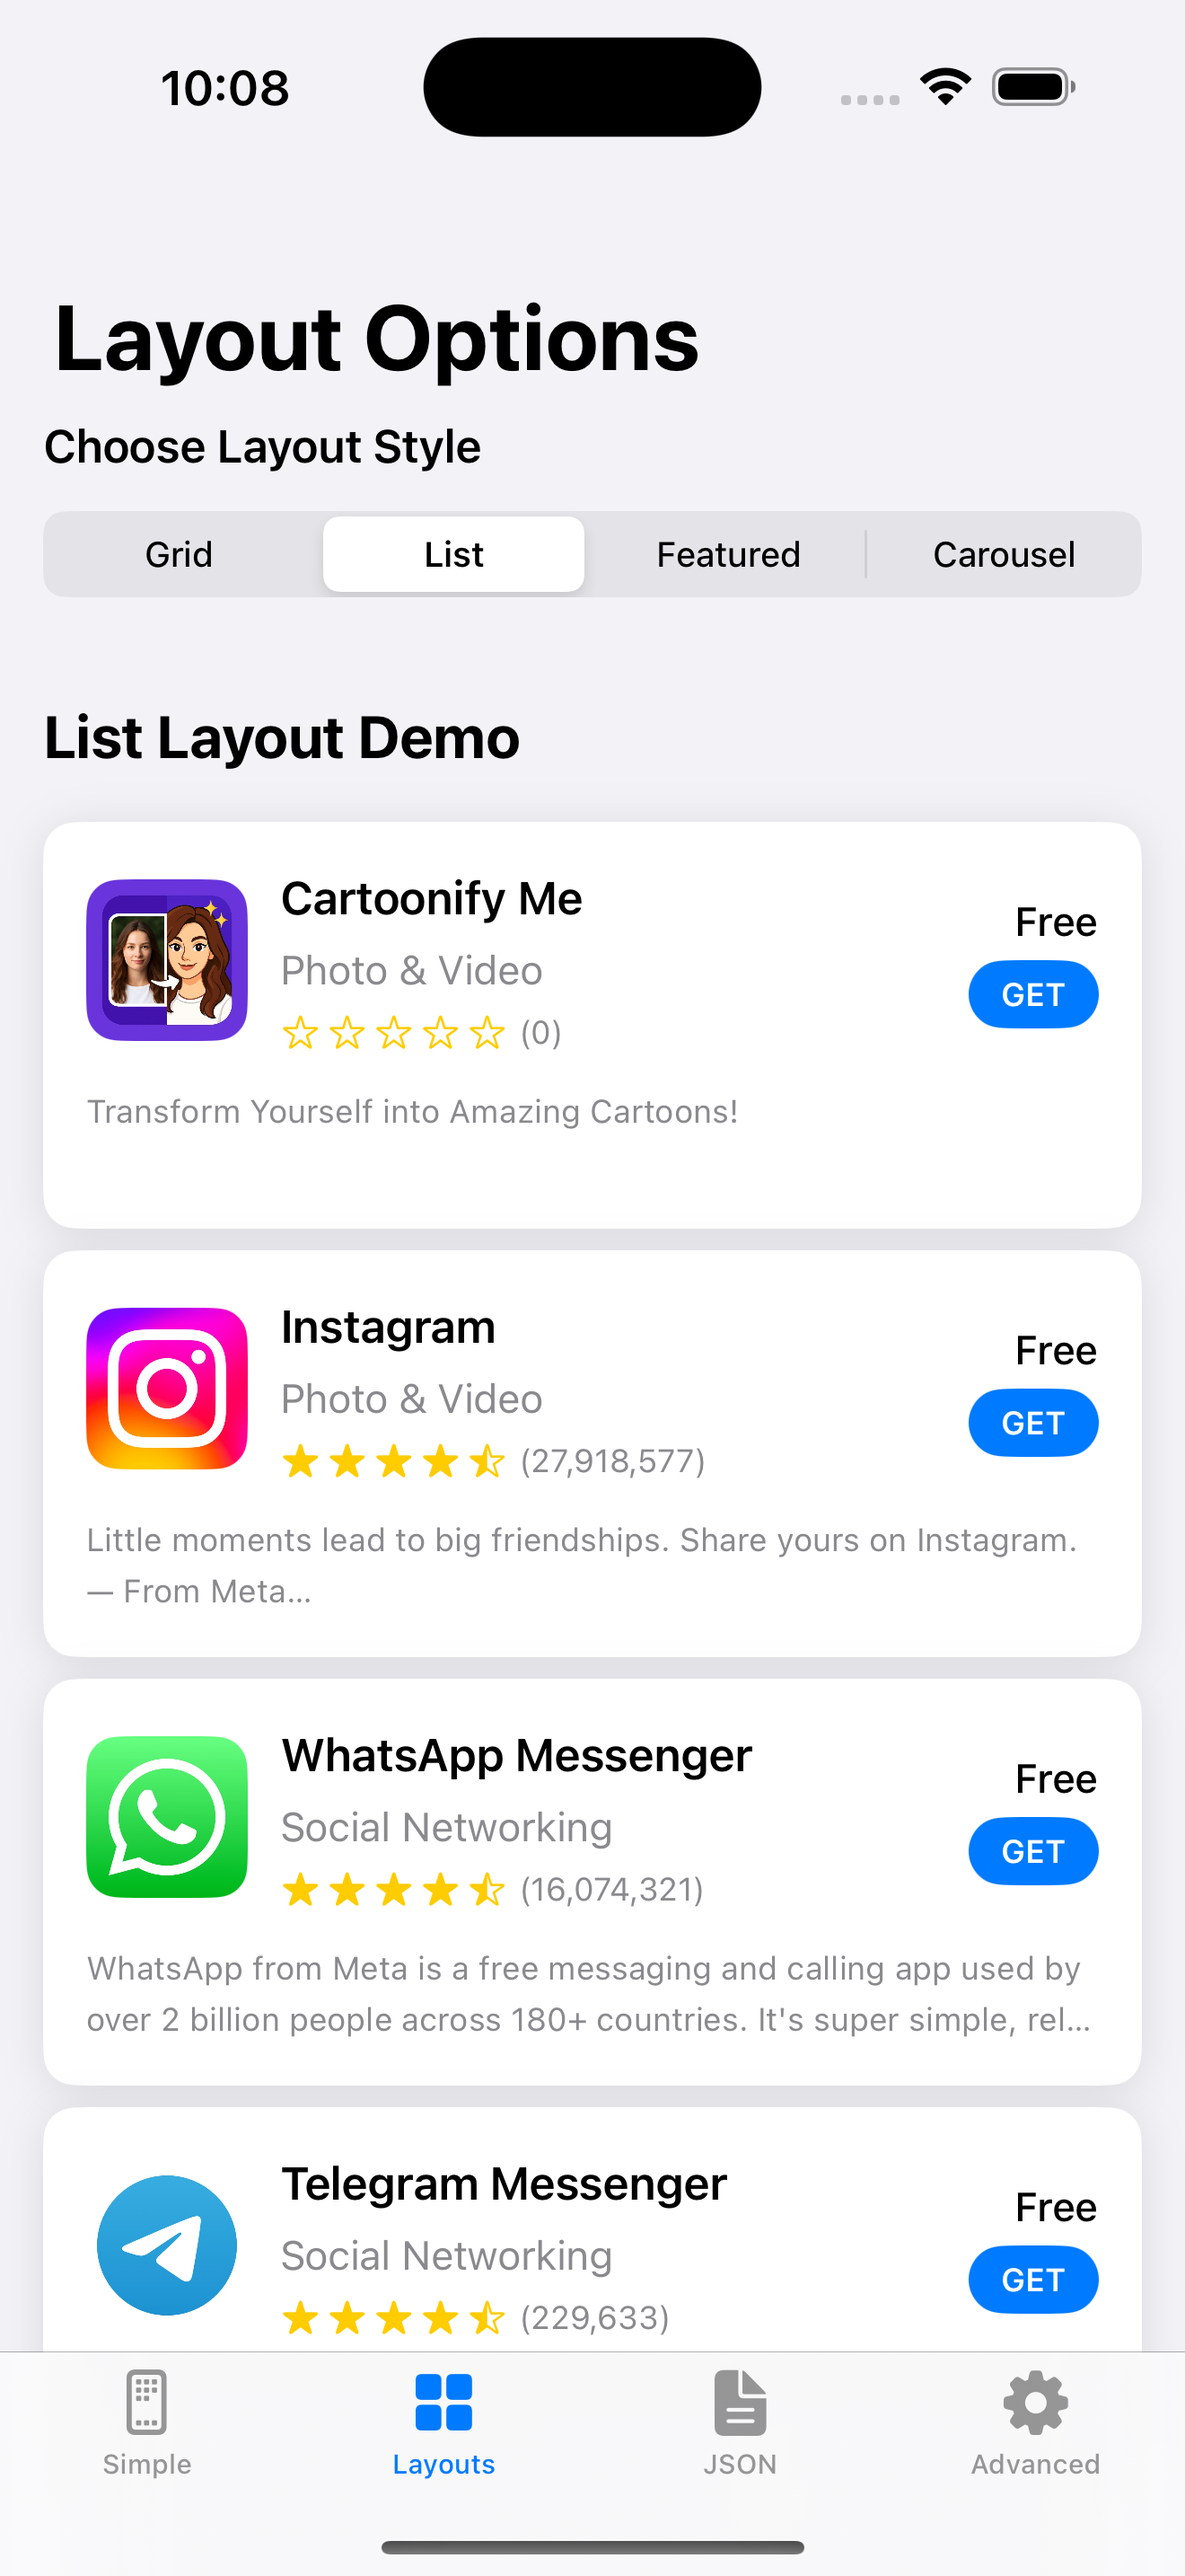
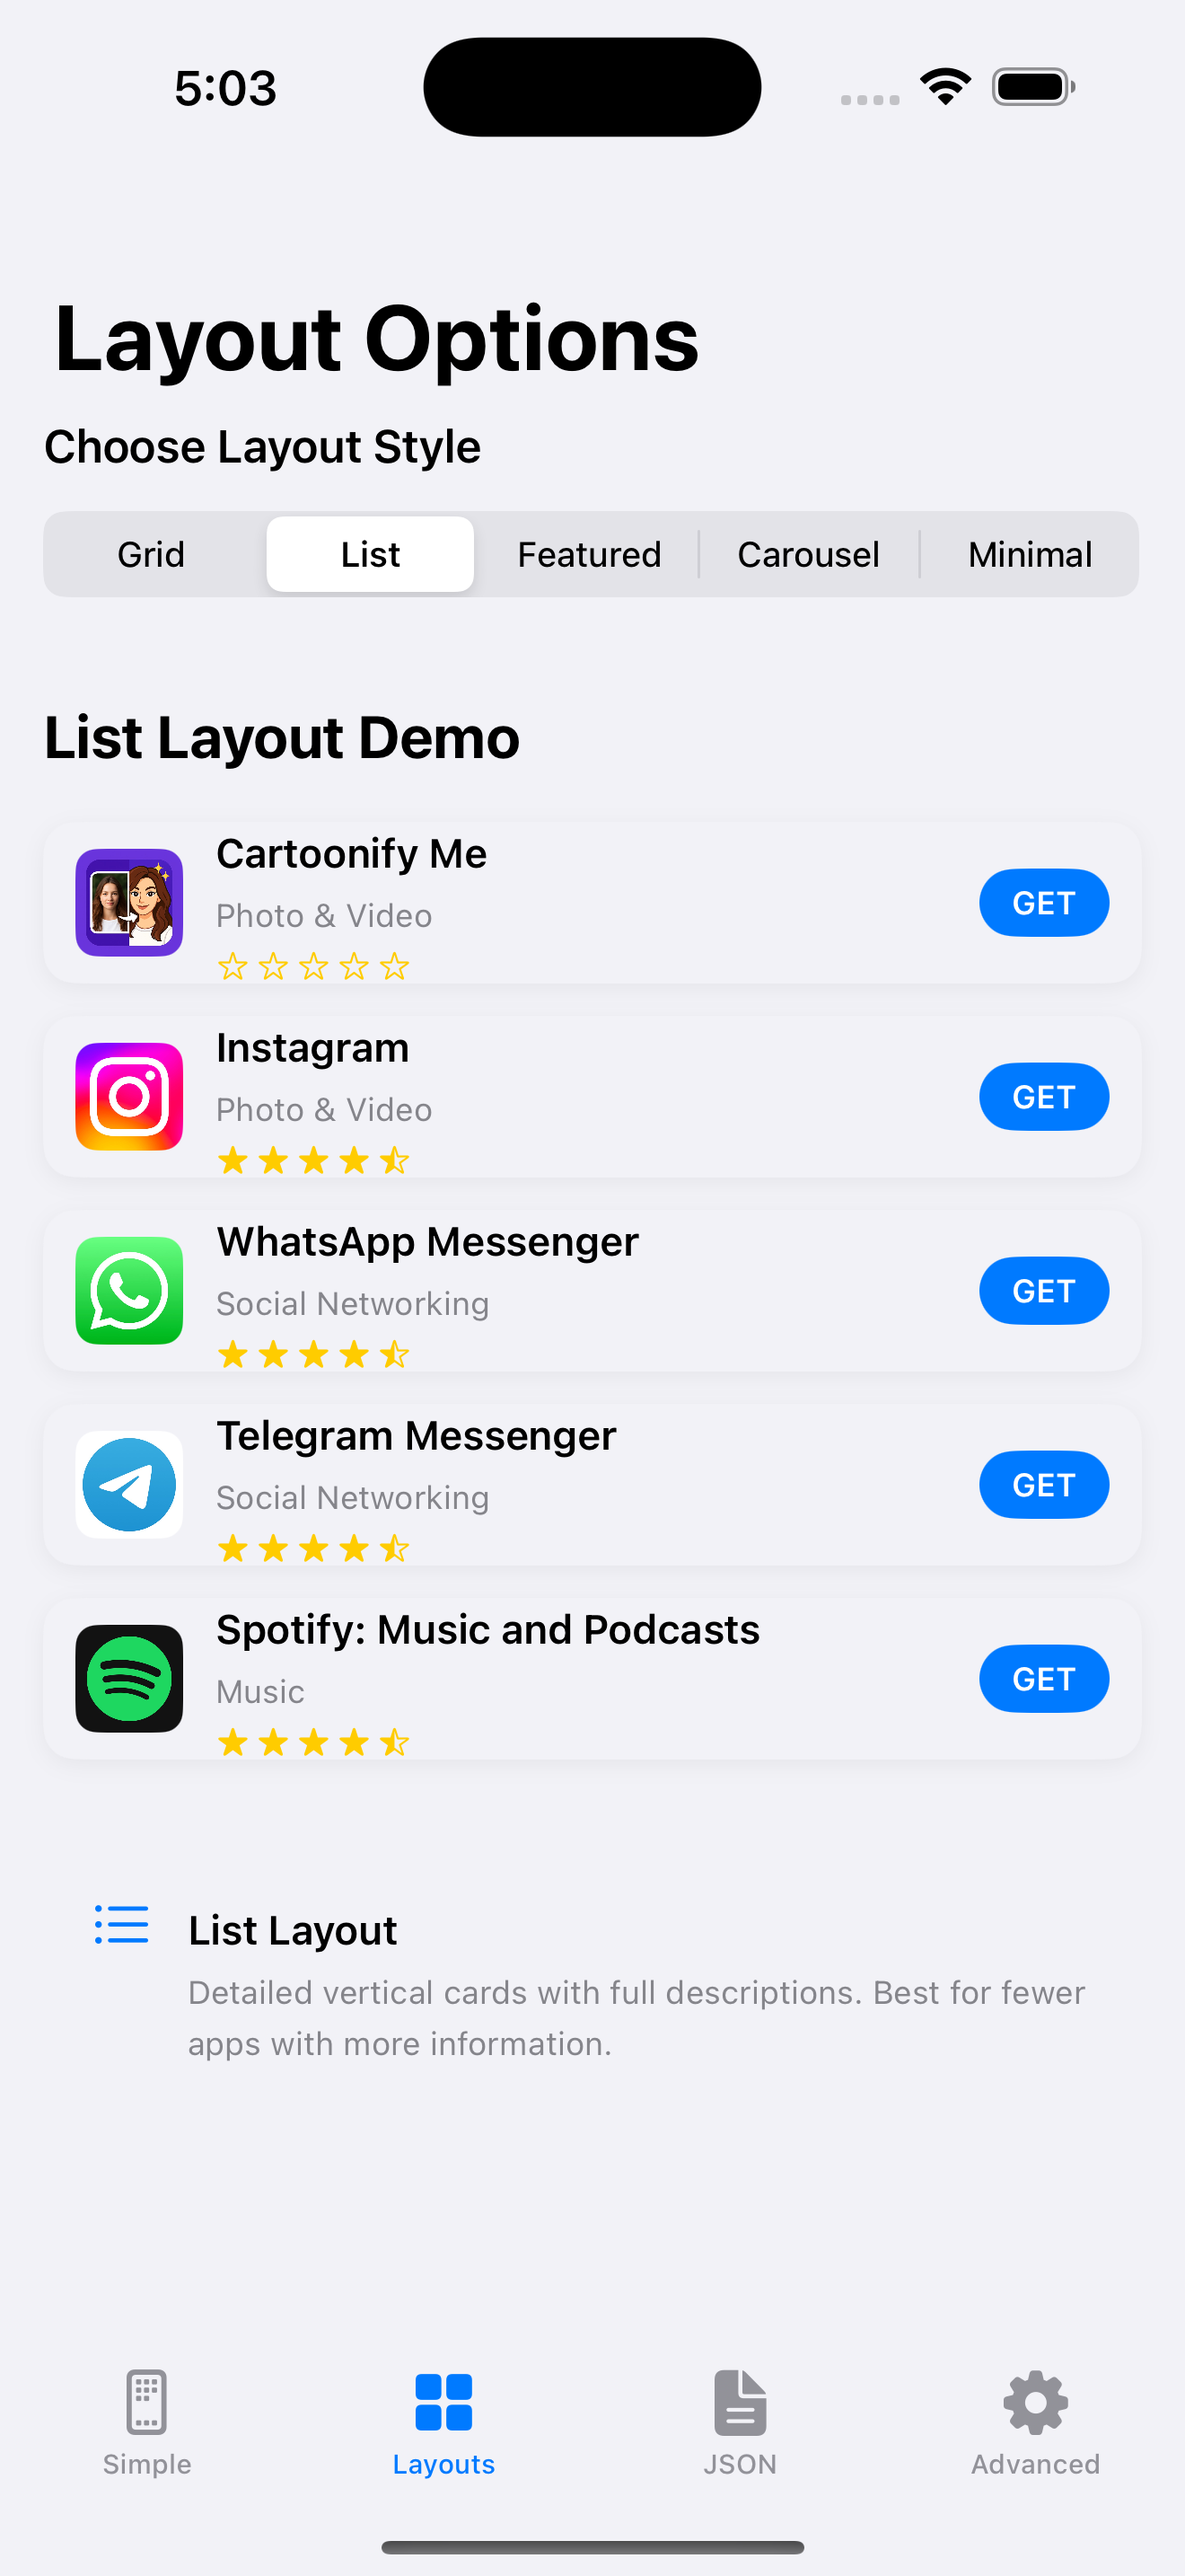
Add minimal layout screenshots to README

diff --git a/README.md b/README.md
@@ -43,6 +43,10 @@ A beautiful, professional SwiftUI library for showcasing your other apps from th
 |:---:|:---:|
 | ![Carousel Layout Light Mode](Screenshots/Screenshot-09.png) | ![Carousel Layout Dark Mode](Screenshots/Screenshot-10.png) |
 
+| Minimal Layout - Light Mode | Minimal Layout - Dark Mode |
+|:---:|:---:|
+| ![Minimal Layout Light Mode](Screenshots/Screenshot-11.png) | ![Minimal Layout Dark Mode](Screenshots/Screenshot-12.png) |
+
 </div>
 
 ### Layout Comparison
@@ -51,6 +55,7 @@ A beautiful, professional SwiftUI library for showcasing your other apps from th
 - **List Layout**: Detailed view with full descriptions and ratings
 - **Featured Layout**: Highlight one app with others below in compact grid
 - **Carousel**: Horizontal scrolling showcase for featured apps
+- **Minimal Layout**: Clean, simple design with app icons and links
 
 ### Dark Mode Support
 All layouts automatically adapt to system appearance settings, providing a seamless experience in both light and dark modes.
@@ -108,6 +113,9 @@ OtherApps.view(urls: yourUrls, layout: .list)
 
 // Carousel (horizontal scrolling)
 OtherApps.view(urls: yourUrls, layout: .carousel)
+
+// Minimal layout (clean, simple design)
+OtherApps.view(urls: yourUrls, layout: .minimal)
 ```
 
 ## 📝 JSON Configuration Format
@@ -143,6 +151,7 @@ public enum OtherAppsLayout {
     case grid       // 2-column grid with compact cards
     case carousel   // Horizontal scrolling carousel
     case featured   // Featured first app + grid of others
+    case minimal    // Clean, simple design with app icons and links
 }
 ```
 
